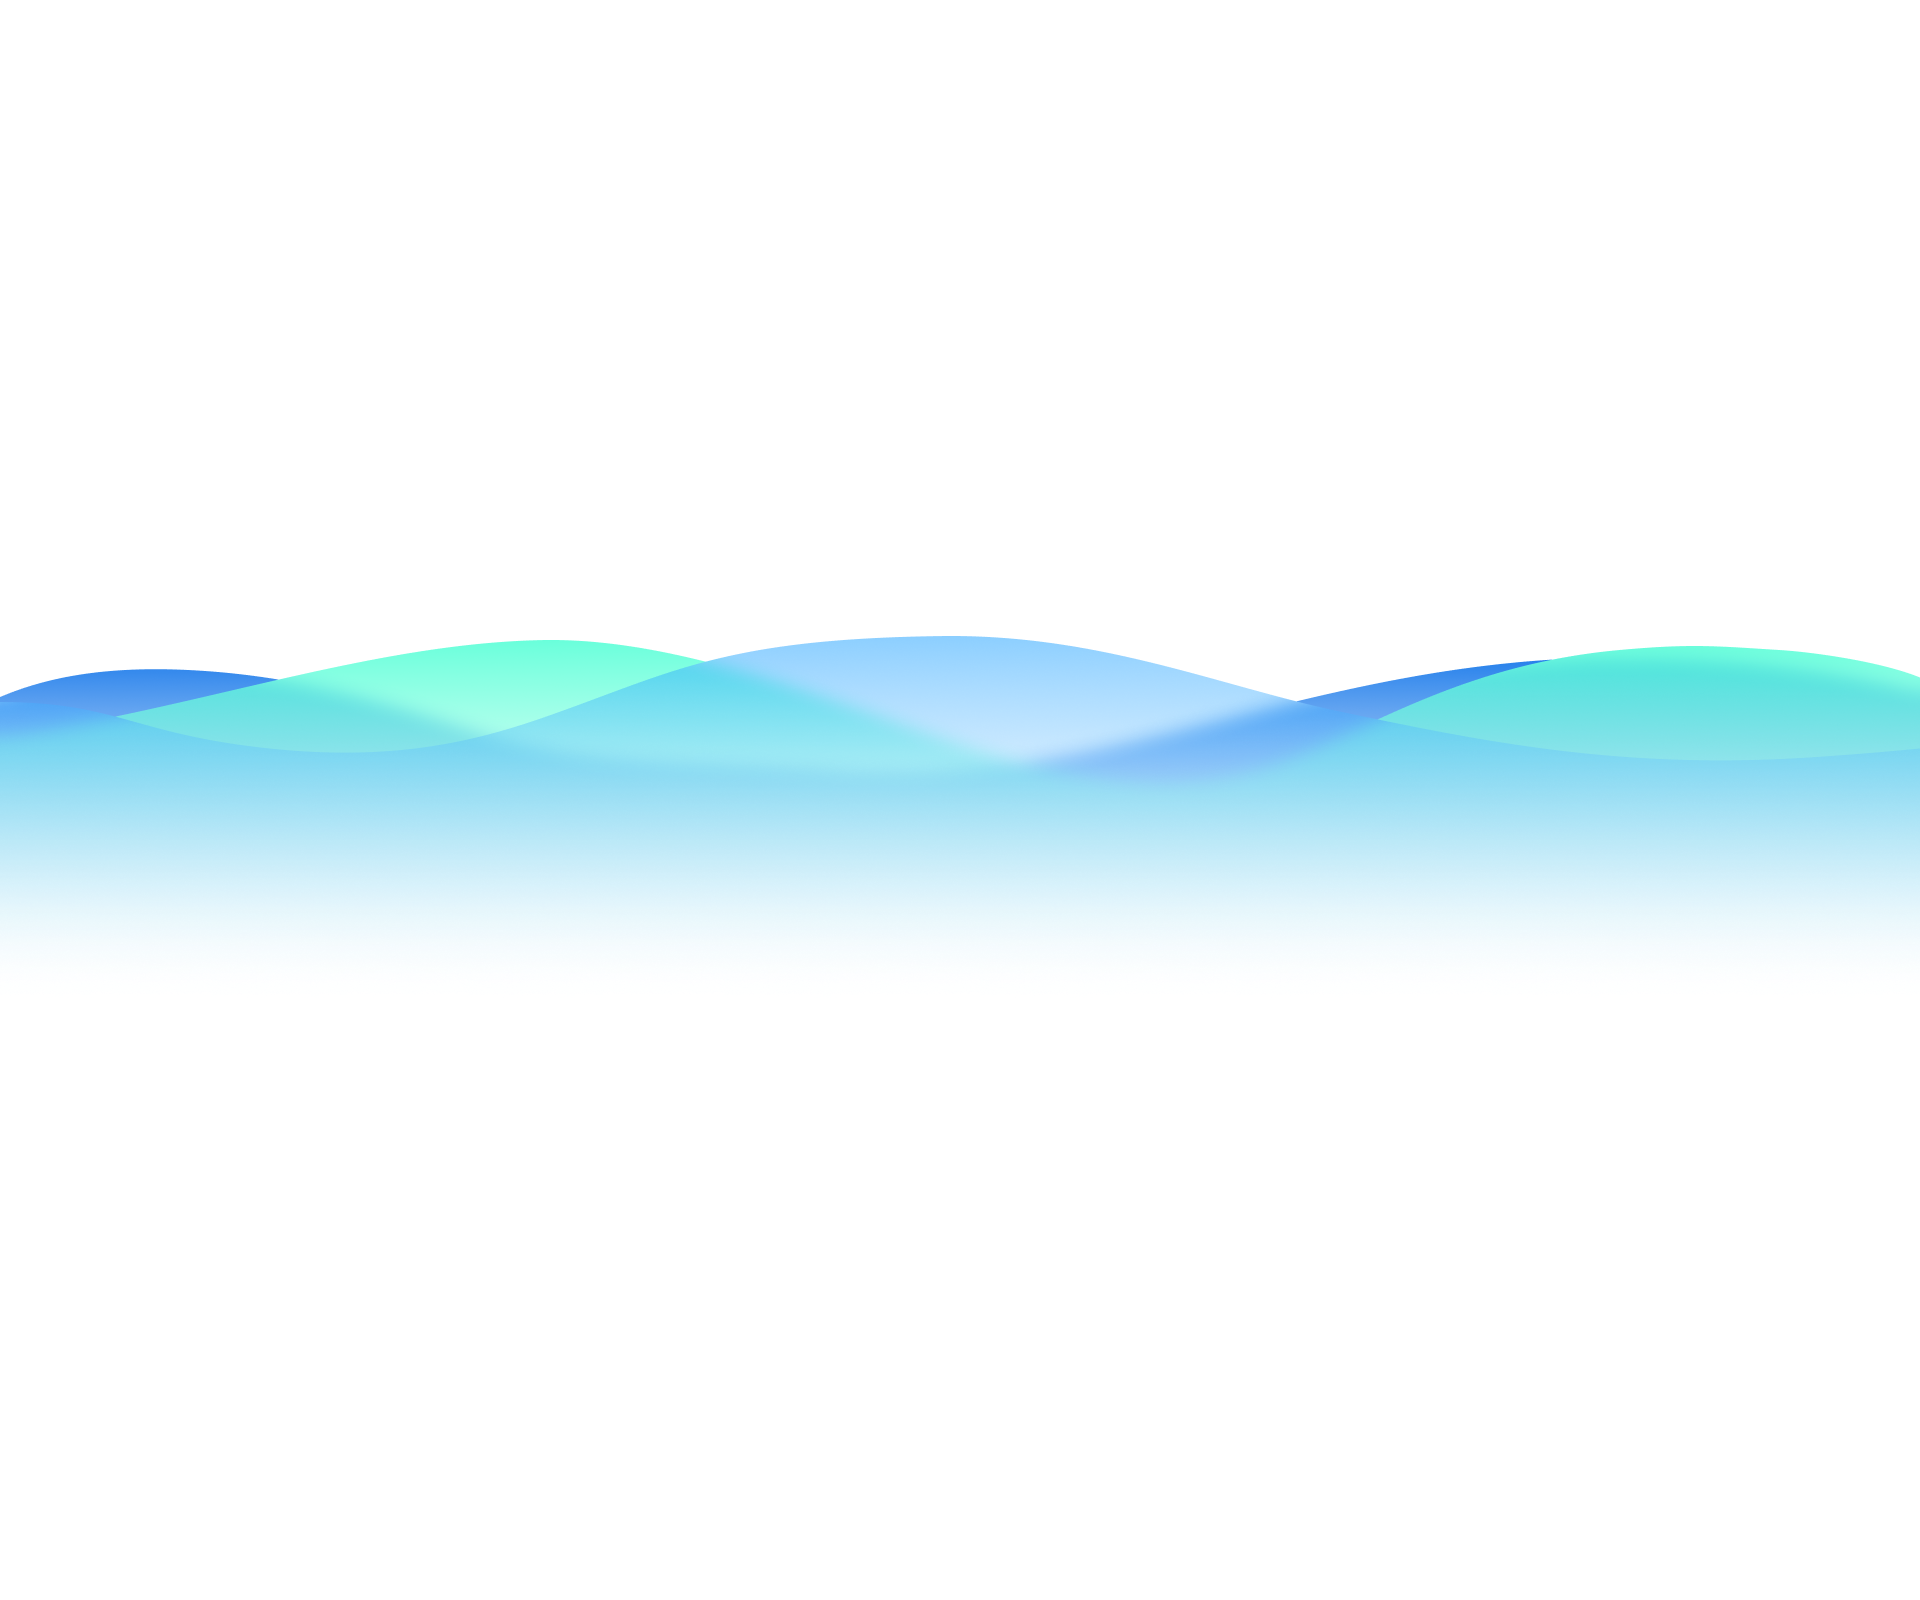
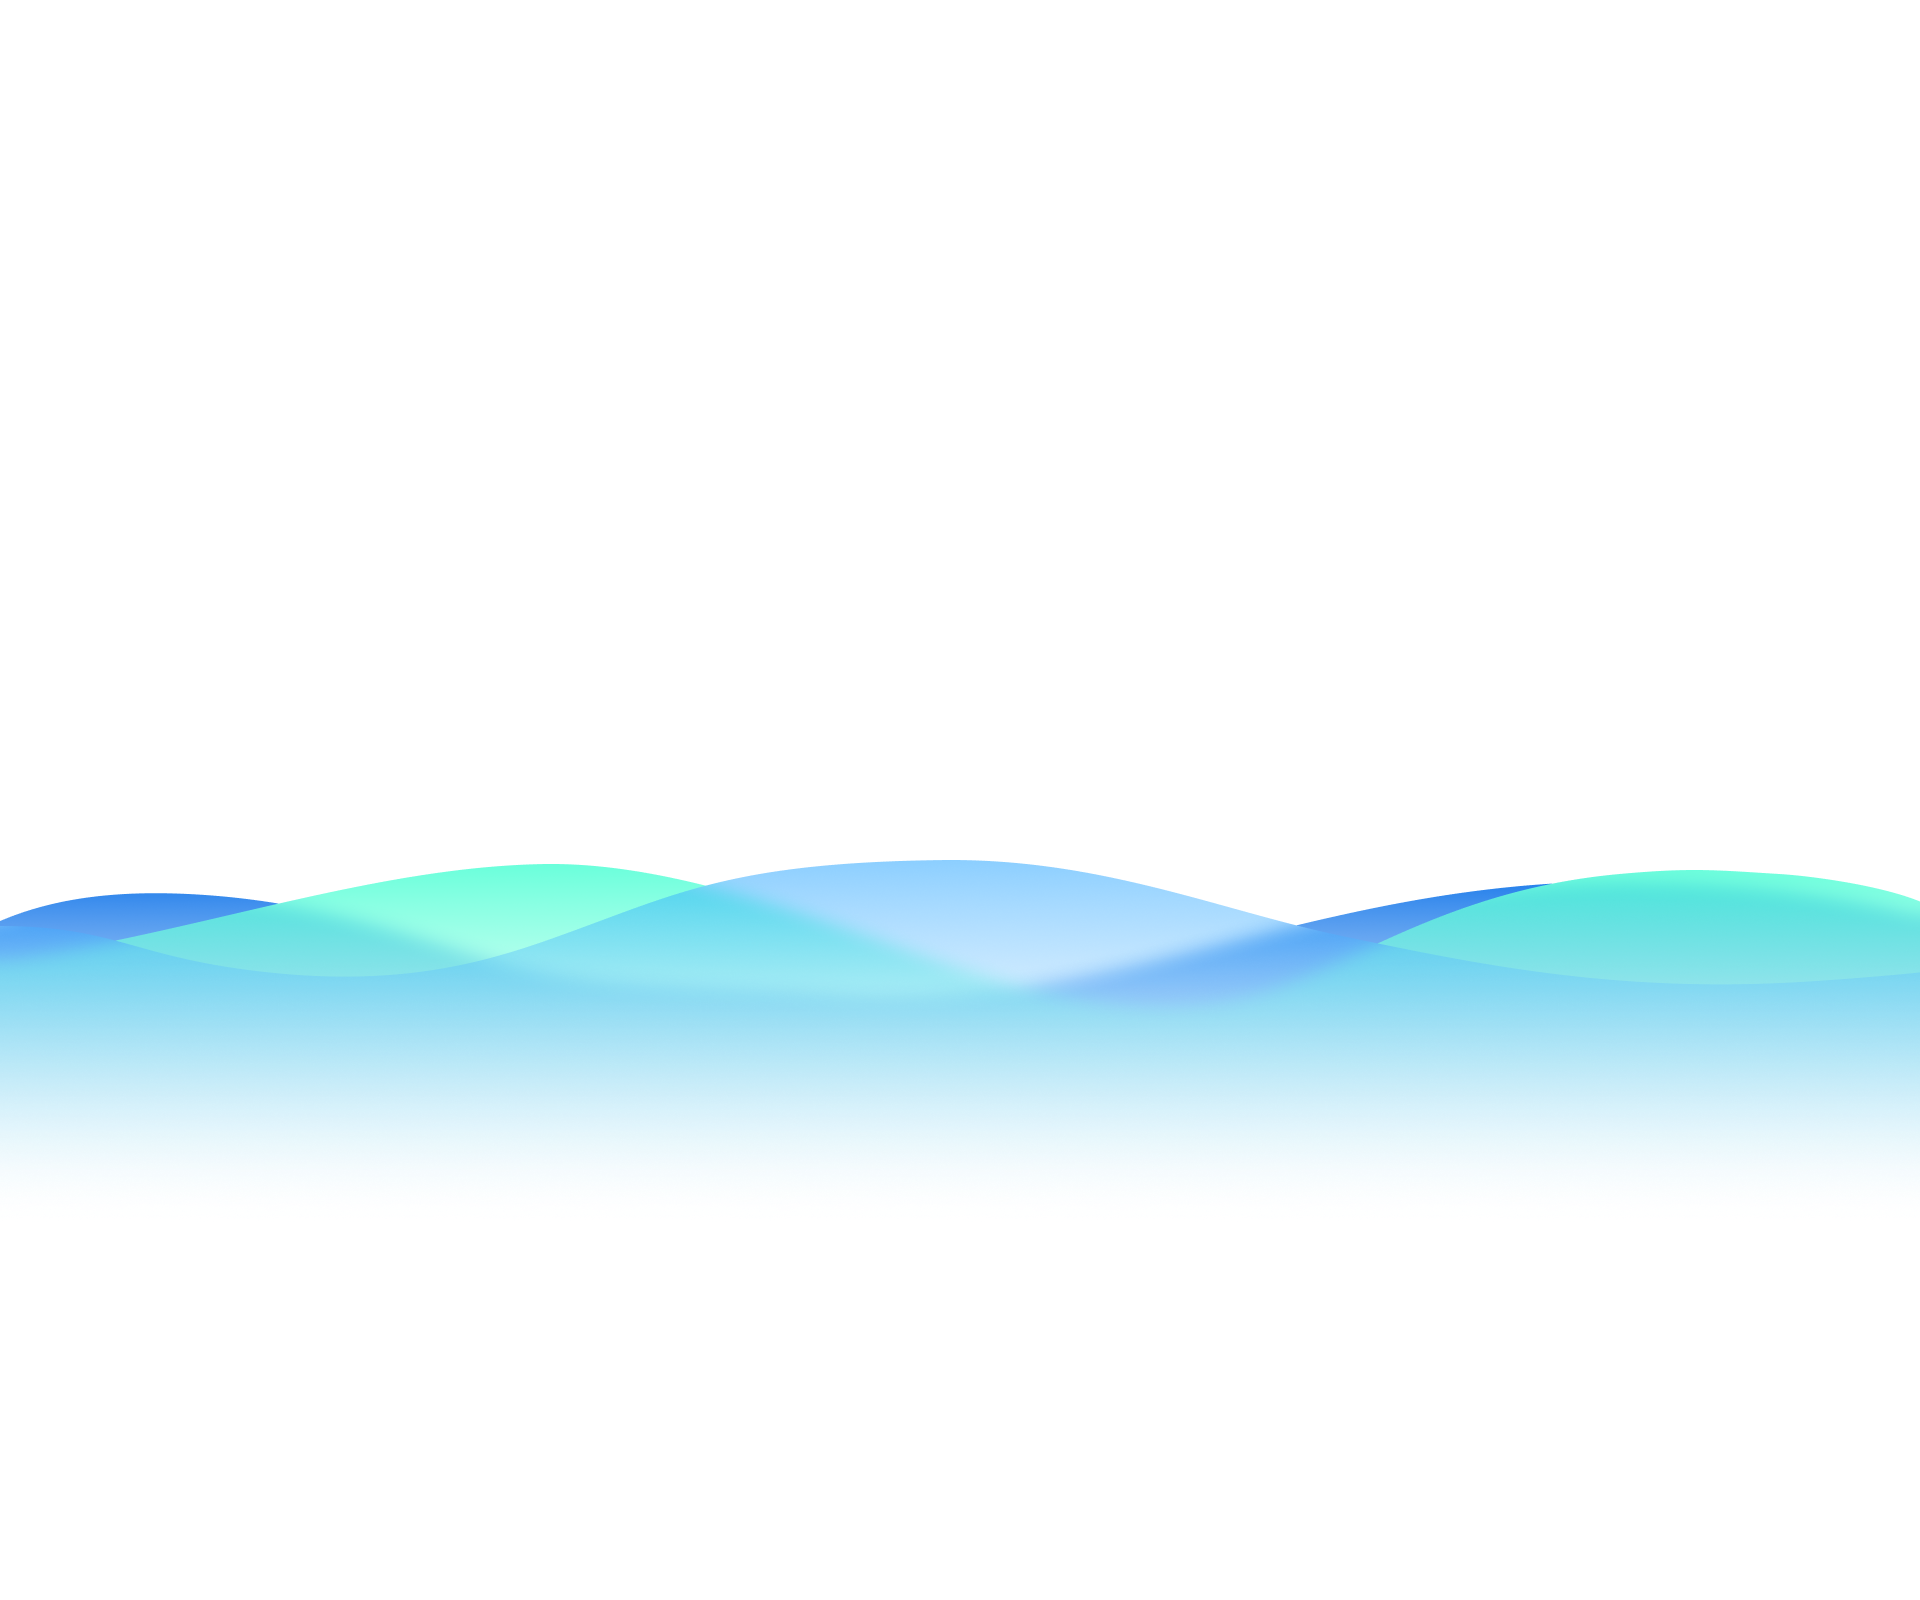
20250123

Changed region(s): [[0.0, 0.375, 1.0, 0.7188]]

diff --git a/project001/index.html b/project001/index.html
@@ -441,7 +441,61 @@
                 <p>대전 아쿠아리움에서 생생하게 보고 즐겁게 체험해보세요!</p>
             </div>
         </section>
-        <section class="map"></section>
+        <section class="way">
+            <div class="title_inner">
+                <h2>오시는길</h2>
+                <div class="sub">
+                    <h3>주소</h3>
+                    <p>대전광역시 중구 보문산공원로 469 (대사동)</p>
+                    <h3>전화문의</h3>
+                    <i class="fa-solid fa-phone"></i>
+                    <p>042-226-2100</p>
+                    <div class="link_btn">
+                        <img src="img/i_map_kakao.png" alt="">
+                        <img src="img/i_map_naver.png" alt="">
+                        <img src="img/i_map_tmap.png" alt="">
+                        <img src="img/i_map_google.png" alt="">
+                    </div>
+                    <div class="textBox">
+                        <div>
+                            <img src="img/i_map_car.png" alt="">
+                            <div class="car">
+                                <p class="sub">자가용 이용</p>
+                                <p class="text01">대전IC - 대전역 - 대전아쿠아리움 (약13km)
+                                    유성IC - 시청 - 대전아쿠아리움 (약13km)
+                                    서대전IC - 서대전4거리 - 대전아쿠아리움 (약13km)
+                                    안영IC - 산성4역 - 충남대학교병원 - 대전아쿠아리움 (약18km)
+                                    판암IC - 한밭종합운동장 - 대전아쿠아리움 (약6km)</p>
+                                <p class="text02">주차안내</p>
+                                <p><em>아쿠아리움 전용 주차타워, 보문산 공영 주차장</em> <br>
+                                    무료주차 가능</p>
+                            </div>
+                            <img src="img/i_map_bus.png" alt="">
+                            <div class="bus">
+                                <p class="sub">대중교통 이용</p>
+                                <p class="text01">
+                                    <em>108, 313, 620</em> <br>
+                                    보문오거리 하차 후 보문산공원쪽으로 도보로 약 700m
+                                </p>
+                                <p class="text02">
+                                    <em>802</em> <br>
+                                    보문산공원 하차 후 보문산공원쪽으로 약 100m
+                                </p>
+                            </div>
+                        </div>
+                    </div>
+                </div>
+            </div>
+            <div class="map">
+                <iframe src="https://www.google.com/maps/embed?pb=!1m18!1m12!1m3!1d3215.09683355044!2d127.41849307581603!3d36.309958572391!2m3!1f0!2f0!3f0!3m2!1i1024!2i768!4f13.1!3m3!1m2!1s0x35654ed7244b3f81%3A0x96beb8f73ba98323!2z64yA7KCE7JWE7L-g7JWE66as7JuA!5e0!3m2!1sko!2skr!4v1737607390305!5m2!1sko!2skr"
+                width="1120"
+                height="825"
+                style="border:0;"
+                allowfullscreen=""
+                loading="lazy"
+                referrerpolicy="no-referrer-when-downgrade"></iframe>
+            </div>
+        </section>
         <section class="gallery"></section>
         <section class="sns"></section>
         <section class="faq"></section>

diff --git a/project001/style.css b/project001/style.css
@@ -793,15 +793,14 @@ img {
 
 /* 예매하기 #################################################################### */
 .ticket {
-    /* width: 100%; */
-    /* padding: 160px 0; */
+    width: 100%;
+    padding: 160px 0;
     height: 1000px;
         background-image: url(img/bg_wave02.png);
         background-size: cover;
         background-repeat: no-repeat;
-        background-position: center center;
+        background-position: center center ;
         background-attachment: fixed;
-        padding-top: 50px;
 }
 
 .ticket .title_inner {
@@ -1266,10 +1265,52 @@ img {
 }
 
 /* 오시는길 */
-.map {
+.way {
     width: 100%;
     height: 1000px;
-    background-color: hotpink;
+}
+
+.way .title_inner {
+    display: flex;
+}
+
+.way .title_inner h2 {
+    width: 41px;
+    color: #3787ff;
+    font-size: 48px;
+    font-weight: normal;
+    font-family: "Black Han Sans", serif;
+    line-height: 40px;
+    text-shadow: 0 4px 4px rgba(0, 0, 0, 0.25);
+    padding-top: 4px;
+}
+
+.way .title_inner .sub {
+    margin-left: 24px;
+}
+
+.way .title_inner .sub h3 {
+    color: #3a3a3a;
+    font-size: 36px;
+    font-weight: bold;
+    font-family: "맑은 고딕" "serif";
+}
+
+.way .title_inner .sub p {
+    color: #666666;
+    font-size: 14px;
+    font-weight: normal;
+    font-family: "맑은 고딕" "serif";
+    line-height: 130%;
+    margin-top: 20px;
+}
+
+.way .map {
+    width: 1120px;
+    height: 825px;
+    overflow: hidden;
+    border-bottom-left-radius: 40px;
+    box-shadow: 0 4px 10px rgba(0, 0, 0, 0.25);
 }
 
 /* 편의시설 */
